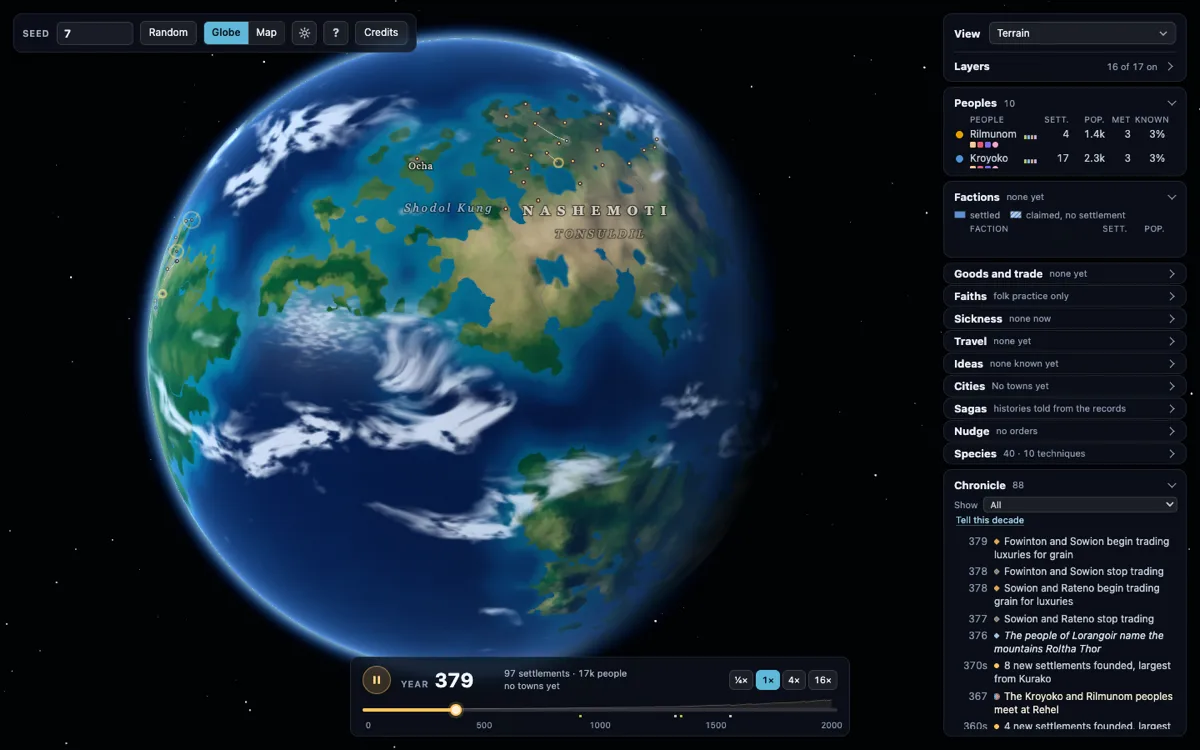
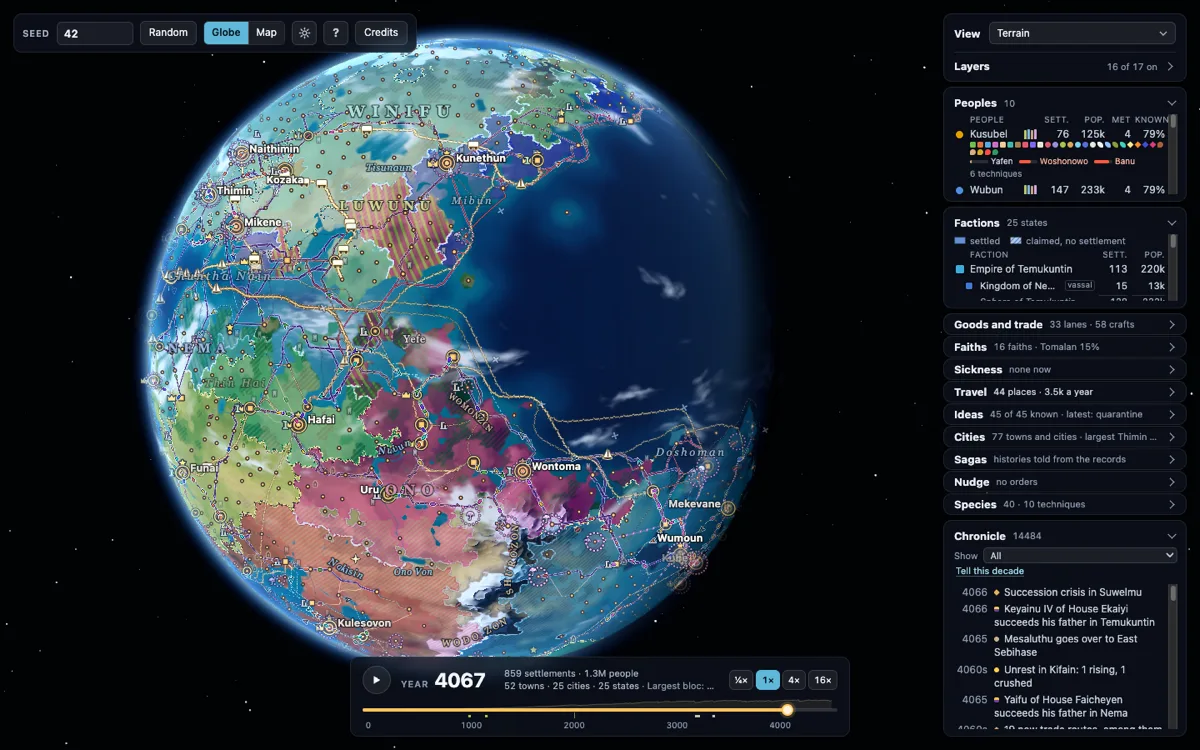
Projects: rewrite World Seed from its new README, use its picture

diff --git a/CLAUDE.md b/CLAUDE.md
@@ -319,11 +319,11 @@ Structured personal data:
 Facts here must match Ryan's master resume (the source of truth for dates, GPA, roles). House style for all site copy: result-first, no hype adjectives, no em dashes in prose (the " — " inside `research.yml` `interests` strings is a separator the templates split on, not prose), never claim solo credit for team work, and say what he did in first person. Sun Lab links go to https://lab.jenjsun.com/.
 
 ### _data/projects.yml
-Top-level key `projects` — ordered list of 8 projects (research work lives in research.yml, not here), each with: `title`, `date` ("Mon YYYY – present", "Mon YYYY – Mon YYYY", or a season, en dash), `summary` (the result plus his role, in first person; Markdown, bold the one key number sparingly), optional `short` (featured projects: the homepage's one-to-two-line version of the summary, Markdown; the homepage falls back to `summary`, /projects/ always shows `summary`; Worship Rig, DoRA and Sisyphus have one), `context` (short muted meta: course, team and role; shown alone on non-featured homepage rows), optional `featured: true` (at most two: listed first; on the homepage only featured rows show the summary; on /projects/ they are full width), `description` and `bullets` (behind "Details" on /projects/), optional `site` (a project page, shown as "site →") and optional `url` (the repo, shown as "code →"), optional `image` (`{src, alt, width, height}`, /projects/ only: a real picture of the project, a screenshot or a results figure, never a mockup; saved under `assets/images/projects/` as 16:10 WebP about 1200px wide, since the list crops to 16:10; `width`/`height` are its pixel size; `alt` says what the picture shows; leave it out when no real picture exists and nothing is drawn). No `tags`. Current pictures (16:10 WebP, 1200x750 unless noted): Worship Rig `worship-rig.webp` (the app's perform screen, `docs/site/img/perform.webp` from the worship-rig repo, the same screenshot as its project page), DoRA `dora.webp` (the team's `results/figures/figI_dora_vs_lora.png` from leonjiao5/cs4782-project, padded with white to 16:10), Traveling Salesman `traveling-salesman.webp` (the top of `frontend/Sample_flight_frontend.png` from boaz-ng/traveling-salesmen, cropped to 16:10), Geometric Art `geometric-art.webp` (675x422: the original Mona Lisa and its triangle-mesh version, cut from `docs/screenshot.png` in ryanmye/geometric-art). World Seed `worldseed.webp` (a screenshot of the live app). Personal Website `personal-website.webp` (a light-theme screenshot of the live homepage at a 1440x900 viewport, saved at 1200x750, Oct 2026; retake it when the hero changes) is back so the four pictured non-featured projects fill two rows; keep the pictured count even so no text-only cell sits beside a picture. Sisyphus (no screenshot in its repo; the demo is a phone video) and Piano Melody Generation have none. Current projects (file order, which is Ryan's chosen order as of Oct 2026: DoRA, Worship Rig, World Seed, Geometric Art, then the rest; Worship Rig and DoRA are featured):
+Top-level key `projects` — ordered list of 8 projects (research work lives in research.yml, not here), each with: `title`, `date` ("Mon YYYY – present", "Mon YYYY – Mon YYYY", or a season, en dash), `summary` (the result plus his role, in first person; Markdown, bold the one key number sparingly), optional `short` (featured projects: the homepage's one-to-two-line version of the summary, Markdown; the homepage falls back to `summary`, /projects/ always shows `summary`; Worship Rig, DoRA and Sisyphus have one), `context` (short muted meta: course, team and role; shown alone on non-featured homepage rows), optional `featured: true` (at most two: listed first; on the homepage only featured rows show the summary; on /projects/ they are full width), `description` and `bullets` (behind "Details" on /projects/), optional `site` (a project page, shown as "site →") and optional `url` (the repo, shown as "code →"), optional `image` (`{src, alt, width, height}`, /projects/ only: a real picture of the project, a screenshot or a results figure, never a mockup; saved under `assets/images/projects/` as 16:10 WebP about 1200px wide, since the list crops to 16:10; `width`/`height` are its pixel size; `alt` says what the picture shows; leave it out when no real picture exists and nothing is drawn). No `tags`. Current pictures (16:10 WebP, 1200x750 unless noted): Worship Rig `worship-rig.webp` (the app's perform screen, `docs/site/img/perform.webp` from the worship-rig repo, the same screenshot as its project page), DoRA `dora.webp` (the team's `results/figures/figI_dora_vs_lora.png` from leonjiao5/cs4782-project, padded with white to 16:10), Traveling Salesman `traveling-salesman.webp` (the top of `frontend/Sample_flight_frontend.png` from boaz-ng/traveling-salesmen, cropped to 16:10), Geometric Art `geometric-art.webp` (675x422: the original Mona Lisa and its triangle-mesh version, cut from `docs/screenshot.png` in ryanmye/geometric-art). World Seed `worldseed.webp` (the README picture, `docs/world-42-year-4067.png` from ryanmye/worldseed). Personal Website `personal-website.webp` (a light-theme screenshot of the live homepage at a 1440x900 viewport, saved at 1200x750, Oct 2026; retake it when the hero changes) is back so the four pictured non-featured projects fill two rows; keep the pictured count even so no text-only cell sits beside a picture. Sisyphus (no screenshot in its repo; the demo is a phone video) and Piano Melody Generation have none. Current projects (file order, which is Ryan's chosen order as of Oct 2026: DoRA, Worship Rig, World Seed, Geometric Art, then the rest; Worship Rig and DoRA are featured):
 Project facts were checked against the repos' commit history (Sep 2026). Ryan's decisions: Worship Rig says "built and shipped" with no mention of how it was built; the DoRA bug is worded "diagnosed"; his Sisyphus role stays general ("worked on the frontend and the AI validation"). Don't reintroduce the claims that were removed: "top 5 of 40+" (it was one of 5 winners among 38 projects), trip sharing on Traveling Salesman (a teammate built it), "fixed" the DoRA bug, or "DoRA showed a consistently larger knows-vs-generates gap" (true in one setting only).
 1. **DoRA Re-Implementation and Evaluation** (Spring 2026, featured) — CS 4782 4-person team (Ryan Ye, Boaz Ng, Leon Jiao, Aadi Singla); he ran all experiments on the HPC cluster, wrote the evaluation harness (logit-probe and two-pass scoring), the data scripts with a leakage filter, the analysis and figures, and the first report draft, and diagnosed a critical bug in the DoRA layer. Team finding: trained on little data, both methods often ranked the right AMC12 answer highest but failed to generate it; more data closed the gap and DoRA reached 46% generated, against LoRA's 36% on the same data (not the best overall: LoRA r4 instruct scored 48%); only a partial replication at 3B
 2. **Worship Rig** (Sep 2026, featured) — his solo Mac app (Electron + Chrome fallback, Web Audio) that turns a MIDI keyboard into a keys rig for worship bands: its own Web Audio engine, 43 instruments (23 sampled, 16 synth patches, 4 drawbar-organ presets), a key drone, an 8-band EQ per sound, a GarageBand/Logic EXS converter, 1,000+ automated tests and a 20-minute soak test, CI releases for Apple Silicon and Intel (Intel only smoke-tested under Rosetta: say "builds for", not "tested on"). v1.0.0 released 2026-09-30 and v1.0.1 on the way, so the site names no version number; `site` https://ryanmye.github.io/worship-rig/, `url` github.com/ryanmye/worship-rig (commits from both his accounts, ryanmye and ilomacht)
-3. **World Seed** (Oct 2026, not featured, not on the CV) — a browser planet and civilization simulator (TypeScript, Three.js, a Web Worker): one seed generates a planet and about 2,000 years of settlement history, deterministic, no backend and no AI model; `site` https://ryanmye.github.io/worldseed/, `url` github.com/ryanmye/worldseed (commits as ilomacht). Picture `worldseed.webp` is a screenshot of the live app at seed 7 (1440x900 viewport, saved at 1200x750)
+3. **World Seed** (Oct 2026, not featured, not on the CV) — a browser planet and civilization simulator (TypeScript, three.js, a Web Worker): one seed builds a planet and simulates its history year by year (2,000 years by default; peoples, trade, states, wars, faiths, dynasties, disease, ideas), deterministic, no backend and no language model, with nudges, a city view and sagas. The text follows the repo's README as rewritten on 2026-10-07; `site` https://ryanmye.github.io/worldseed/, `url` github.com/ryanmye/worldseed (commits as ilomacht). Picture `worldseed.webp` is the README's `docs/world-42-year-4067.png` (seed 42 in the year 4067), resized to 1200x750
 4. **Geometric Art** (Oct 2026, small personal project, not featured, not on the CV) — a browser app (TypeScript, web workers) that rebuilds a photo as overlapping shapes (hill climbing), a triangle mesh or a polygon mosaic (threshold accepting); `site` https://ryanmye.github.io/geometric-art/, `url` github.com/ryanmye/geometric-art. The geometric art album holds animations made with it
 5. **Traveling Salesman: Conversational Flight Search** (Mar 2026) — Cornell AI Hackathon; he built most of the React frontend (the 2D map and 3D globe, requirements strip, plan cards; he reworked the scaffolded chat panel) and the agent tool that fills in the planner; teammates built flight search, the rest of the backend and trip sharing (team size unconfirmed; do not state one)
 6. **Personal Website** (Mar 2026 – present) — this site
